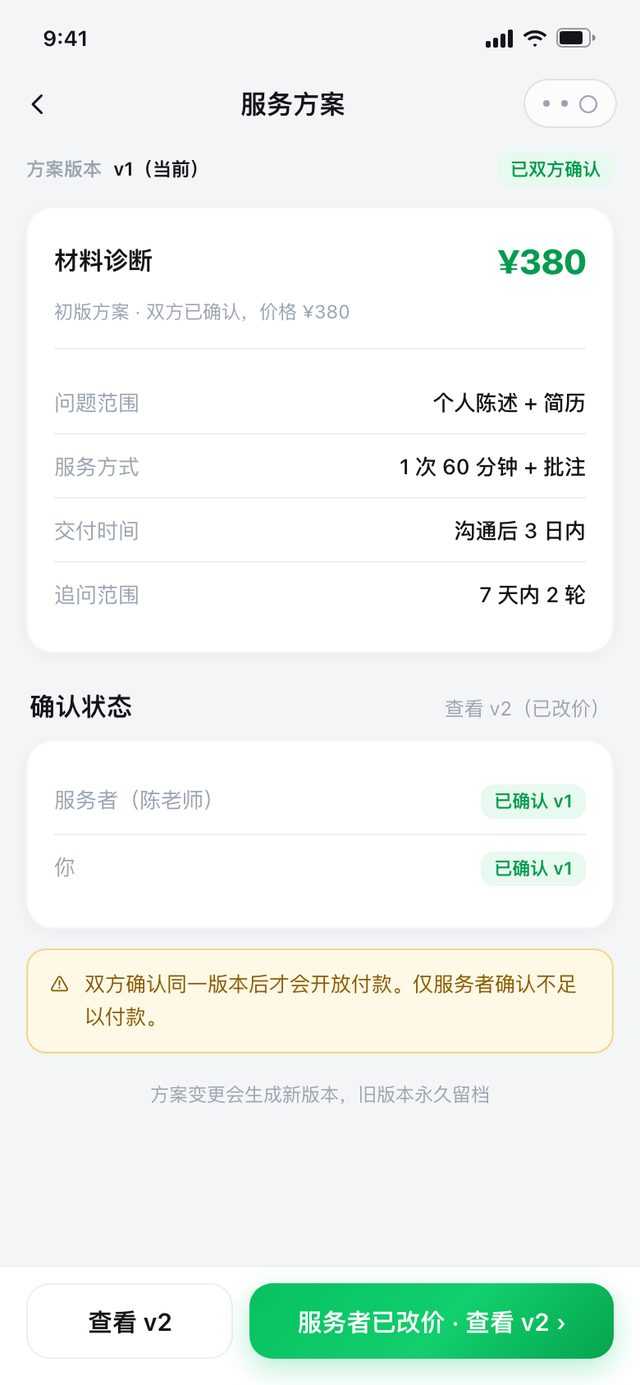
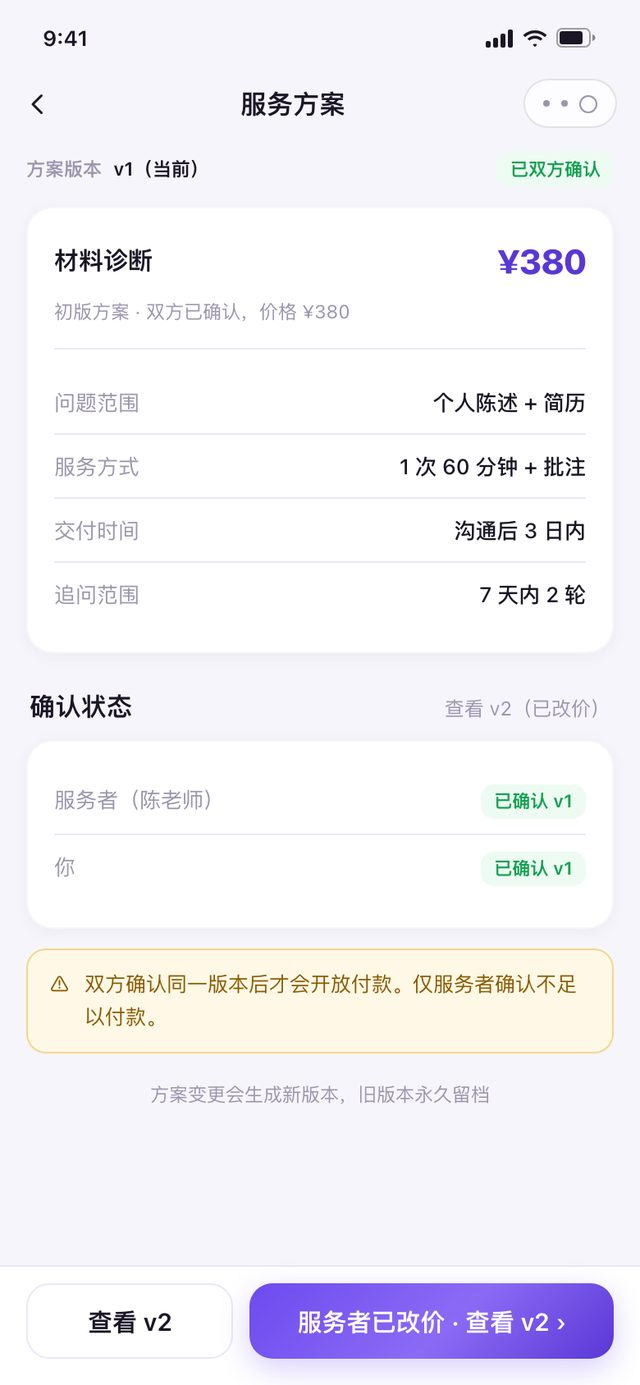
品牌更名为同路；白天主题改为浅紫（#6d4aef / #f7f5fc），黑夜紫保持不变；重出界面截图

Changed region(s): [[0.375, 0.9004, 0.9688, 0.9935], [0.7812, 0.1552, 0.9062, 0.2173]]

diff --git a/index.html b/index.html
@@ -3,9 +3,9 @@
 <head>
 <meta charset="UTF-8" />
 <meta name="viewport" content="width=device-width, initial-scale=1, maximum-scale=1, viewport-fit=cover" />
-<meta name="theme-color" content="#f4f5f7" />
-<meta name="description" content="研途 · AI 保研服务平台。先弄清自己的情况，再找到能真正帮上忙的人。定位诊断、服务者匹配、售前确认、平台付款。" />
-<title>研途 · AI 保研服务平台</title>
+<meta name="theme-color" content="#f7f5fc" />
+<meta name="description" content="同路 · AI 保研服务平台。先弄清自己的情况，再找到能真正帮上忙的人。定位诊断、服务者匹配、售前确认、平台付款。" />
+<title>同路 · AI 保研服务平台</title>
 <link rel="icon" href="favicon.svg" type="image/svg+xml" />
 <link rel="stylesheet" href="assets/tokens.css" />
 <link rel="stylesheet" href="assets/site.css" />
@@ -17,7 +17,7 @@
   <div class="nav-in">
     <a class="logo" href="#top">
       <span class="logo-mark">研</span>
-      <span class="logo-txt">研途<small>AI 保研服务</small></span>
+      <span class="logo-txt">同路<small>AI 保研服务</small></span>
     </a>
     <nav class="nav-links">
       <a href="#product">产品</a>
@@ -43,7 +43,7 @@
       <h1>先弄清<em>你的情况</em>，<br />再决定找谁帮你。</h1>
       <p class="lead">
         保研路上最容易走错的一步，不是不够努力，是<span class="hl">不知道自己现在该干什么</span>。
-        研途先帮你把情况和问题说清楚，再告诉你下一步，最后才谈找谁帮忙、花多少钱。
+        同路先帮你把情况和问题说清楚，再告诉你下一步，最后才谈找谁帮忙、花多少钱。
       </p>
       <div class="hero-btns">
         <a class="btn btn-primary" href="demo.html">进入演示 →</a>
@@ -60,7 +60,7 @@
       <div class="phone-mini">
         <picture>
           <source srcset="assets/shots/dark-home.jpg" media="(prefers-color-scheme: dark)" />
-          <img class="hero-shot" id="heroShot" src="assets/shots/light-home.jpg" data-shot="home" alt="研途首页界面" />
+          <img class="hero-shot" id="heroShot" src="assets/shots/light-home.jpg" data-shot="home" alt="同路首页界面" />
         </picture>
       </div>
       <div class="float-card fc1">
@@ -217,7 +217,7 @@
     <div class="foot-l">
       <div class="logo">
         <span class="logo-mark">研</span>
-        <span class="logo-txt">研途<small>AI 保研服务</small></span>
+        <span class="logo-txt">同路<small>AI 保研服务</small></span>
       </div>
       <p>先诊断 · 再匹配 · 先确认 · 后付款</p>
     </div>

diff --git a/assets/theme.css b/assets/theme.css
@@ -1,22 +1,22 @@
 :root {
-  --brand: #07c160;
-  --brand-2: #12ce6c;
-  --brand-3: #05a44f;
-  --brand-soft: #e8f9ef;
-  --accent: #049c4e;
-  --ink: #121417;
-  --ink-2: #5b6572;
-  --ink-3: #9aa4b0;
-  --bg: #f4f5f7;
+  --brand: #6d4aef;
+  --brand-2: #8b6bf5;
+  --brand-3: #5a37d6;
+  --brand-soft: #f0ebfe;
+  --accent: #5a37d6;
+  --ink: #1a1626;
+  --ink-2: #5f5872;
+  --ink-3: #9b95ad;
+  --bg: #f7f5fc;
   --card: #ffffff;
-  --line: #edeff2;
+  --line: #ece7f7;
   --radius: 16px;
   --radius-l: 22px;
   --radius-s: 12px;
   --radius-btn: 14px;
   --shadow: 0 2px 10px rgba(18, 20, 23, .045);
   --shadow-l: 0 6px 22px rgba(18, 20, 23, .06);
-  --shadow-brand: 0 6px 18px rgba(7, 193, 96, .28);
+  --shadow-brand: 0 6px 18px rgba(109, 74, 239, .26);
   --font: -apple-system, BlinkMacSystemFont, "PingFang SC", "HarmonyOS Sans SC", "MiSans", "Microsoft YaHei", sans-serif;
   --serif: var(--font);
   --warn-bg: #fff8e6;
@@ -24,8 +24,8 @@
   --warn-ink: #8a5a00;
   --danger: #d93f3f;
   --danger-soft: #fdeceb;
-  --ok-soft: #e8f9ef;
-  --ok-ink: #049c4e;
+  --ok-soft: #eefbf3;
+  --ok-ink: #12a150;
   --nav-bg: rgba(244,245,247,.92);
   --sheet: #ffffff;
   --chip: #f0f2f5;
@@ -224,8 +224,8 @@ a { color: inherit; text-decoration: none; }
   position: relative; overflow: hidden; margin-top: 4px; padding: 20px 18px 18px;
   border-radius: var(--radius-l); color: #fff;
   background: radial-gradient(340px 200px at 88% -10%, rgba(255, 255, 255, .3), transparent 60%),
-    linear-gradient(140deg, #07c160 0%, #12ce6c 52%, #05a44f 100%);
-  box-shadow: 0 16px 36px rgba(7, 193, 96, .3);
+    linear-gradient(140deg, #7d5cf0 0%, #8f6df7 52%, #5a37d6 100%);
+  box-shadow: 0 16px 36px rgba(109, 74, 239, .3);
 }
 .hero::after {
   content: ""; position: absolute; right: -38px; top: -46px; width: 150px; height: 150px;
@@ -239,7 +239,7 @@ a { color: inherit; text-decoration: none; }
 .hero p { margin-top: 8px; font-size: 12.5px; color: rgba(255, 255, 255, .86); line-height: 1.6; }
 .hero .btn-row { margin-top: 16px; display: flex; gap: 9px; position: relative; z-index: 2; }
 .hero .btn-row .btn { flex: 1; }
-.hero .btn.primary { background: #fff; color: #05a44f; box-shadow: 0 6px 16px rgba(0, 0, 0, .12); }
+.hero .btn.primary { background: #fff; color: #5a37d6; box-shadow: 0 6px 16px rgba(0, 0, 0, .12); }
 .hero .btn.line { background: rgba(255, 255, 255, .16); border: 1px solid rgba(255, 255, 255, .5); color: #fff; }
 .quick-chips { display: flex; gap: 8px; margin-top: 12px; }
 /* 通知条目 */

diff --git a/demo.html b/demo.html
@@ -3,9 +3,9 @@
 <head>
 <meta charset="UTF-8" />
 <meta name="viewport" content="width=device-width, initial-scale=1, maximum-scale=1, viewport-fit=cover" />
-<meta name="theme-color" content="#f4f5f7" />
-<meta name="description" content="研途 · AI 保研服务平台可交互演示。15 个画面，从需求建档到服务交付。" />
-<title>可交互演示 · 研途</title>
+<meta name="theme-color" content="#f7f5fc" />
+<meta name="description" content="同路 · AI 保研服务平台可交互演示。15 个画面，从需求建档到服务交付。" />
+<title>可交互演示 · 同路</title>
 <link rel="icon" href="favicon.svg" type="image/svg+xml" />
 <link rel="stylesheet" href="assets/tokens.css" />
 <link rel="stylesheet" href="assets/demo.css" />
@@ -18,7 +18,7 @@
     <svg width="17" height="17" viewBox="0 0 24 24" fill="none" stroke="currentColor" stroke-width="2" stroke-linecap="round" stroke-linejoin="round"><path d="M15 5l-7 7 7 7"/></svg>
     <span>返回</span>
   </a>
-  <div class="dtitle">可交互演示<small>研途 · AI 保研服务平台</small></div>
+  <div class="dtitle">可交互演示<small>同路 · AI 保研服务平台</small></div>
   <div class="dright">
     <button class="dbtn" id="btnTheme" type="button" title="白天 / 黑夜">
       <svg class="ic-sun" viewBox="0 0 24 24" fill="none" stroke="currentColor" stroke-width="1.8" stroke-linecap="round"><circle cx="12" cy="12" r="4"/><path d="M12 2v2M12 20v2M4.9 4.9l1.4 1.4M17.7 17.7l1.4 1.4M2 12h2M20 12h2M4.9 19.1l1.4-1.4M17.7 6.3l1.4-1.4"/></svg>
@@ -32,7 +32,7 @@
 <div class="dwrap">
   <div class="dstage">
     <div class="dphone">
-      <iframe id="frame" src="app.html?embed=1#/home" title="研途界面演示"></iframe>
+      <iframe id="frame" src="app.html?embed=1#/home" title="同路界面演示"></iframe>
     </div>
     <div class="dhint">
       <span>直接在手机上点 · 也可以滑动</span>

diff --git a/assets/tokens.css b/assets/tokens.css
@@ -4,24 +4,24 @@
    ============================================================ */
 
 :root {
-  --brand: #07c160;
-  --brand-2: #12ce6c;
-  --brand-3: #05a44f;
-  --brand-soft: #e8f9ef;
-  --accent: #049c4e;
-  --ink: #121417;
-  --ink-2: #5b6572;
-  --ink-3: #9aa4b0;
-  --bg: #f4f5f7;
+  --brand: #6d4aef;
+  --brand-2: #8b6bf5;
+  --brand-3: #5a37d6;
+  --brand-soft: #f0ebfe;
+  --accent: #5a37d6;
+  --ink: #1a1626;
+  --ink-2: #5f5872;
+  --ink-3: #9b95ad;
+  --bg: #f7f5fc;
   --card: #ffffff;
-  --line: #edeff2;
+  --line: #ece7f7;
   --radius: 16px;
   --radius-l: 22px;
   --radius-s: 12px;
   --radius-btn: 14px;
   --shadow: 0 2px 10px rgba(18, 20, 23, .045);
   --shadow-l: 0 6px 22px rgba(18, 20, 23, .06);
-  --shadow-brand: 0 6px 18px rgba(7, 193, 96, .28);
+  --shadow-brand: 0 6px 18px rgba(109, 74, 239, .26);
   --font: -apple-system, BlinkMacSystemFont, "PingFang SC", "HarmonyOS Sans SC", "MiSans", "Microsoft YaHei", sans-serif;
   --serif: var(--font);
   --warn-bg: #fff8e6;
@@ -29,11 +29,11 @@
   --warn-ink: #8a5a00;
   --danger: #d93f3f;
   --danger-soft: #fdeceb;
-  --ok-soft: #e8f9ef;
-  --ok-ink: #049c4e;
-  --nav-bg: rgba(244,245,247,.92);
+  --ok-soft: #eefbf3;
+  --ok-ink: #12a150;
+  --nav-bg: rgba(247,245,252,.92);
   --sheet: #ffffff;
-  --chip: #f0f2f5;
+  --chip: #f2eefb;
 }
 
 html[data-theme="dark"] {

diff --git a/assets/app.js b/assets/app.js
@@ -22,7 +22,7 @@ function setTheme(t) {
   document.querySelectorAll("[data-theme-btn]").forEach((b) =>
     b.classList.toggle("on", (b.dataset.themeBtn === "dark") === dark));
   const meta = document.querySelector('meta[name="theme-color"]');
-  if (meta) meta.setAttribute("content", dark ? "#0e1220" : "#f4f5f7");
+  if (meta) meta.setAttribute("content", dark ? "#0e1220" : "#f7f5fc");
   try { localStorage.setItem("yantu-theme", dark ? "dark" : "light"); } catch (e) {}
   // 通知外层官网
   try { window.parent.postMessage({ type: "yantu-theme", theme: dark ? "dark" : "light" }, "*"); } catch (e) {}
@@ -787,7 +787,7 @@ function renderNav(name) {
   nav.className = "navbar";
   const capsule = `<span class="nav-capsule"><span class="dot"></span><span class="dot"></span><span class="ring"></span></span>`;
   nav.innerHTML = cfg.brand
-    ? `<span class="nav-brand">研途<small>保研服务</small></span>${capsule}`
+    ? `<span class="nav-brand">同路<small>保研服务</small></span>${capsule}`
     : `<button class="nav-back" onclick="back()">${ICON.back}</button><span class="nav-title">${cfg.title || ""}</span>${capsule}`;
 }
 

diff --git a/assets/site.js b/assets/site.js
@@ -11,7 +11,7 @@
     const dark = theme === "dark";
     root.dataset.theme = dark ? "dark" : "light";
     const meta = document.querySelector('meta[name="theme-color"]');
-    if (meta) meta.setAttribute("content", dark ? "#0e1220" : "#f4f5f7");
+    if (meta) meta.setAttribute("content", dark ? "#0e1220" : "#f7f5fc");
     // 静态界面截图按主题切换
     document.querySelectorAll("img[data-shot]").forEach((img) => {
       const next = `assets/shots/${dark ? "dark" : "light"}-${img.dataset.shot}.jpg`;

diff --git a/app.html b/app.html
@@ -3,8 +3,8 @@
 <head>
 <meta charset="UTF-8" />
 <meta name="viewport" content="width=device-width, initial-scale=1, maximum-scale=1, viewport-fit=cover" />
-<meta name="theme-color" content="#f4f5f7" />
-<title>研途 · 界面演示</title>
+<meta name="theme-color" content="#f7f5fc" />
+<title>同路 · 界面演示</title>
 <link rel="icon" href="favicon.svg" type="image/svg+xml" />
 <link rel="stylesheet" href="assets/theme.css" />
 </head>

diff --git a/assets/demo.js b/assets/demo.js
@@ -19,7 +19,7 @@
     const dark = theme === "dark";
     root.dataset.theme = theme;
     const meta = document.querySelector('meta[name="theme-color"]');
-    if (meta) meta.setAttribute("content", dark ? "#0e1220" : "#f4f5f7");
+    if (meta) meta.setAttribute("content", dark ? "#0e1220" : "#f7f5fc");
     if (syncFrame) setFrameTheme();
   }
 

diff --git a/assets/data.js b/assets/data.js
@@ -5,7 +5,7 @@
    ============================================================ */
 
 window.MOCK = {
-  brand: { name: "研途", sub: "保研服务" },
+  brand: { name: "同路", sub: "保研服务" },
 
   student: {
     key: "N-2041",
